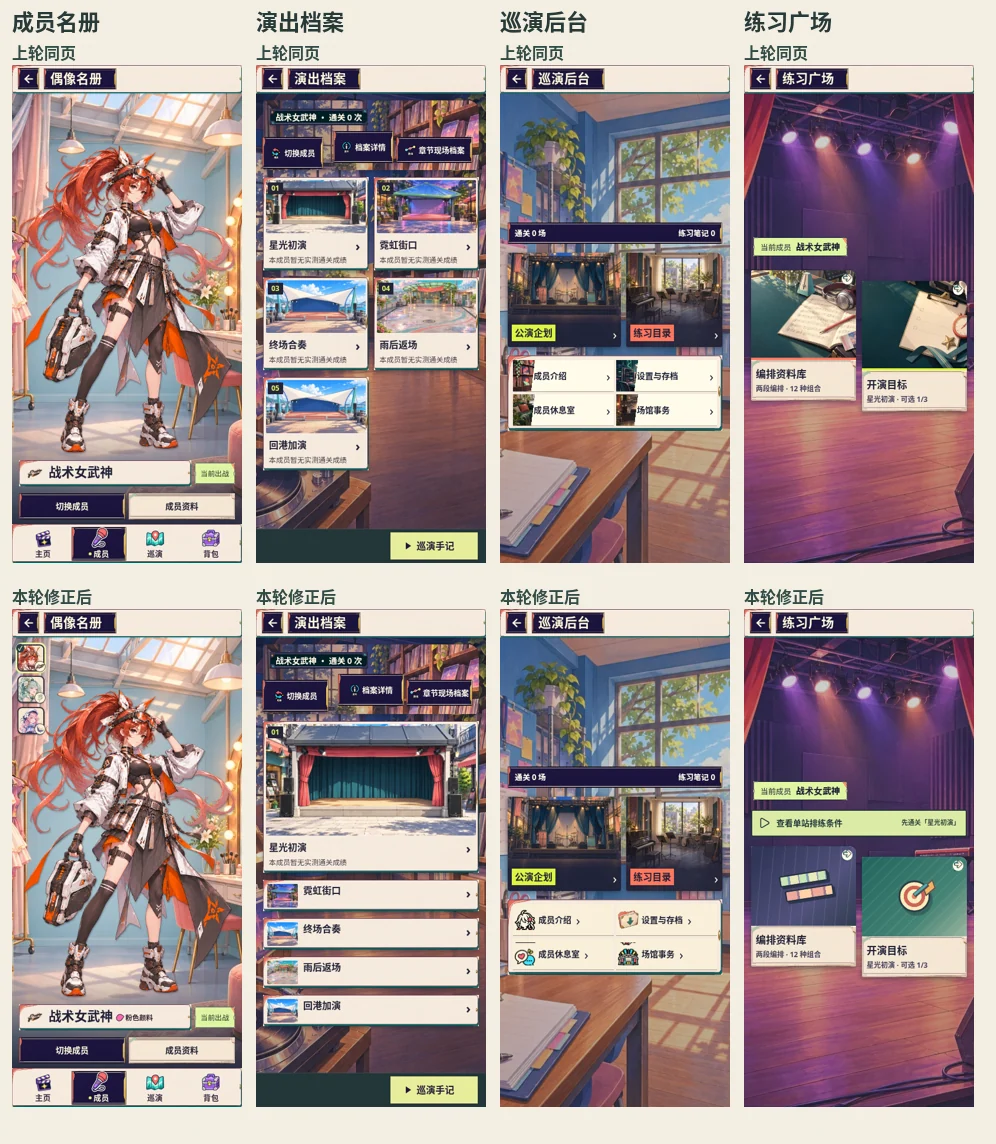
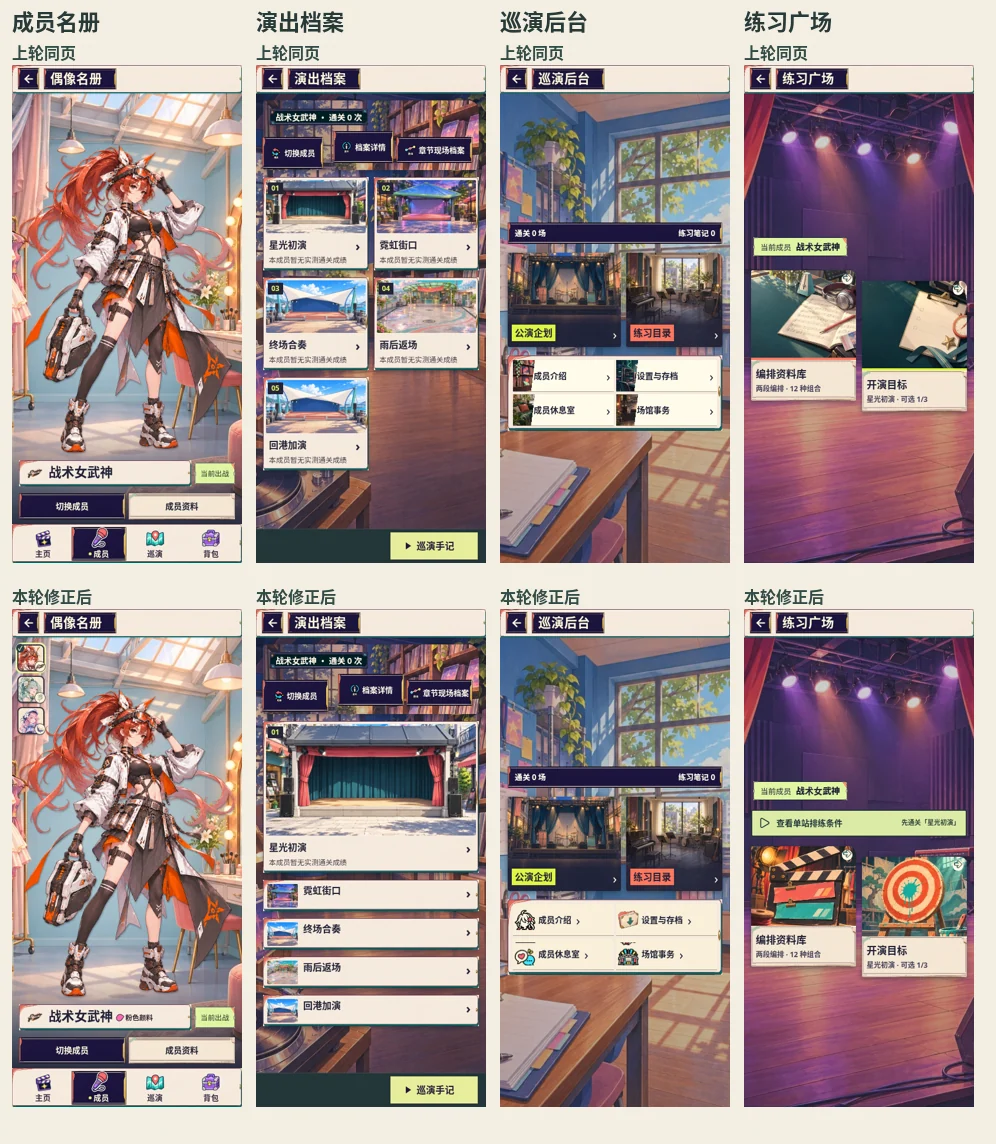
Illustrate the two rehearsal entrances with original, legible scenes at phone scale

Changed region(s): [[0.747, 0.7343, 0.996, 0.826]]

diff --git a/game/src/styles/printroomInnerPages.css b/game/src/styles/printroomInnerPages.css
@@ -877,15 +877,10 @@
   & dialog.ui-sheet .pm-offline-service :is(strong,small) {color:#283a43}
   & dialog.ui-sheet .pm-offline-service .cs-service-state {display:none}
   &[data-page=sideplay] .product-module-screen[data-practice-studio] {
-    & .ps-entry:has(.practice-illustration) .ps-entry-art {display:none}
-    & .practice-illustration {position:relative;grid-area:1/1;display:grid;place-content:center;gap:6px;height:clamp(84px,16dvh,145px);overflow:hidden}
-    & .practice-illustration[data-practice=library] {background:repeating-linear-gradient(95deg,#ffffff12 0 2px,transparent 2px 19px),linear-gradient(135deg,#303558 8%,#52527d 62%,#313c50)}
-    & .practice-illustration[data-practice=library] i {position:relative;display:block;width:clamp(75px,21vw,112px);height:19px;transform:rotate(-9deg);border:2px solid #222e3b;border-radius:3px;background:repeating-linear-gradient(to right,#c9e4b4 0 12px,#829cb6 12px 16px,#e9e9ba 16px 30px,#9c9ab9 30px 32px);box-shadow:3px 4px #1d293cb0}
-    & .practice-illustration[data-practice=library] i:nth-child(2) {left:10px;background:repeating-linear-gradient(to right,#eea99b 0 18px,#a27b92 18px 22px,#ffd3a6 22px 42px,#c3838d 42px 45px)}
-    & .practice-illustration[data-practice=goals] {background:repeating-linear-gradient(-45deg,#ffffff12 0 2px,transparent 2px 14px),linear-gradient(135deg,#22655e,#448374 65%,#9db6a0)}
-    & .practice-illustration[data-practice=goals] i {position:relative;display:block;width:clamp(54px,14vw,76px);aspect-ratio:1;border:3px solid #293c45;border-radius:50%;box-shadow:4px 6px #243d4070;background:radial-gradient(circle,#ed815d 0 13%,#f8edc2 14% 35%,#cd6556 36% 53%,#ffeabb 54% 72%,#885650 73%)}
-    & .practice-illustration[data-practice=goals] i::after {content:'';position:absolute;width:57%;height:4px;border:1px solid #483e46;background:#53acab;bottom:48%;left:48%;transform:rotate(-40deg);transform-origin:0 50%;box-shadow:0 2px #484b50}
-    & .practice-illustration[data-practice=goals] i::before {content:'';position:absolute;width:18px;height:11px;left:79%;top:5%;transform:rotate(-40deg) skew(-20deg);background:#f4b361;border:2px solid #544e50}
+    & .ps-entry img.ps-entry-art {
+      display:block;grid-area:1/1;width:100%;height:clamp(84px,16dvh,145px);
+      object-fit:cover;object-position:50% 49%;border:0;border-radius:0;pointer-events:none;
+    }
   }
 }
 

diff --git a/01-美术/practice-cards/export.py b/01-美术/practice-cards/export.py
@@ -1,0 +1,21 @@
+"""Export each practice card from the two halves of the original painting."""
+from pathlib import Path
+from tempfile import NamedTemporaryFile
+
+from PIL import Image
+
+source = Path(__file__).resolve().parent
+output = source.parents[1] / "game" / "public" / "art" / "program-studio-20261101"
+
+if __name__ == "__main__":
+    with Image.open(source / "clapper-and-target.png") as painting:
+        width, height = painting.size
+        if width != height * 2:
+            raise ValueError("Expected two equal square paintings")
+        for panel, filename in enumerate(("practice-score.webp", "practice-target.webp")):
+            left = height * panel
+            bounds = (left, 25, left + height, height - 26)
+            card = painting.crop(bounds).convert("RGB").resize((640, 604), Image.Resampling.LANCZOS)
+            with NamedTemporaryFile(dir=output, delete=False) as file:
+                card.save(file, "WEBP", quality=84, method=6)
+            Path(file.name).replace(output / filename)

diff --git a/docs/visual-qa/2026-11-25-gapfix/interfaces.md b/docs/visual-qa/2026-11-25-gapfix/interfaces.md
@@ -27,7 +27,7 @@
 | 17 场馆事务 | 类比图 14 的地点选择。空房间直接给“先安排成员”；排班后才出现筹备。编辑区在保存处列待安排的成员和节目，关窗取消未保存草稿。 |
 | 18 公演企划 | 对照图 10。主要动作回到当前站，进度和目标规则在各自的二级窗。进度窗注明下次开放站；目标窗将重复的成绩门槛合为一句。 |
 | 19 成员介绍 | 对照图 37。切换成员连同头像、动作名和实际动作帧一起切换。女武神出枪、风歌突进、蔚蓝展开书各用自己的实战与道具。 |
-| 20 练习广场 | 对照图 5。两条叠放乐轨表示编排，靶面表示演出目标；单站练习保留真实开演路径。缩略图和文字能分别指向各自用途。 |
+| 20 练习广场 | 对照图 5。编排卡画排练灯下夹着两张色票的场记板，目标卡画有青色命中墨迹的独立靶台。320 与 390 宽均点中过整幅插画进入对应功能。第三个入口保留单站练习。[无字原稿与导出](../../../01-美术/practice-cards/README.md) |
 | 21 设置与服务 | 检查本作真实双入口。声音窗恢复可见叉形并保留 44×44 触摸范围，备份显示本机是否有可导出存档；离线服务合在只读信息区。 |
 
 ## 40 个二级入口

diff --git a/01-美术/practice-cards/README.md b/01-美术/practice-cards/README.md
@@ -1,0 +1,5 @@
+# 练习广场双卡原画
+
+`clapper-and-target.png` 是本轮用 GPT 图像生成的一次性无字双联原稿，1774×887。左边的场记板夹着两张彩色排演提示，台灯和幕布在后景。右边画架上的实物靶有颜料命中痕迹，靶台前有颜料杯。两幅画都没嵌进标题、按钮和游戏角色。
+
+在仓库根目录运行 `python 01-美术/practice-cards/export.py`，脚本用 Pillow 沿正中分开两幅画，各裁掉上方 25 像素和下方 26 像素，并导出为 640×604 的 WebP。运行时沿用 `owner-program-studio` 清单内的 `art/program-studio-20261101/practice-score.webp` 和 `practice-target.webp`。窄屏卡片再按实际框宽等比裁切，标题及点击范围由游戏绘制。
